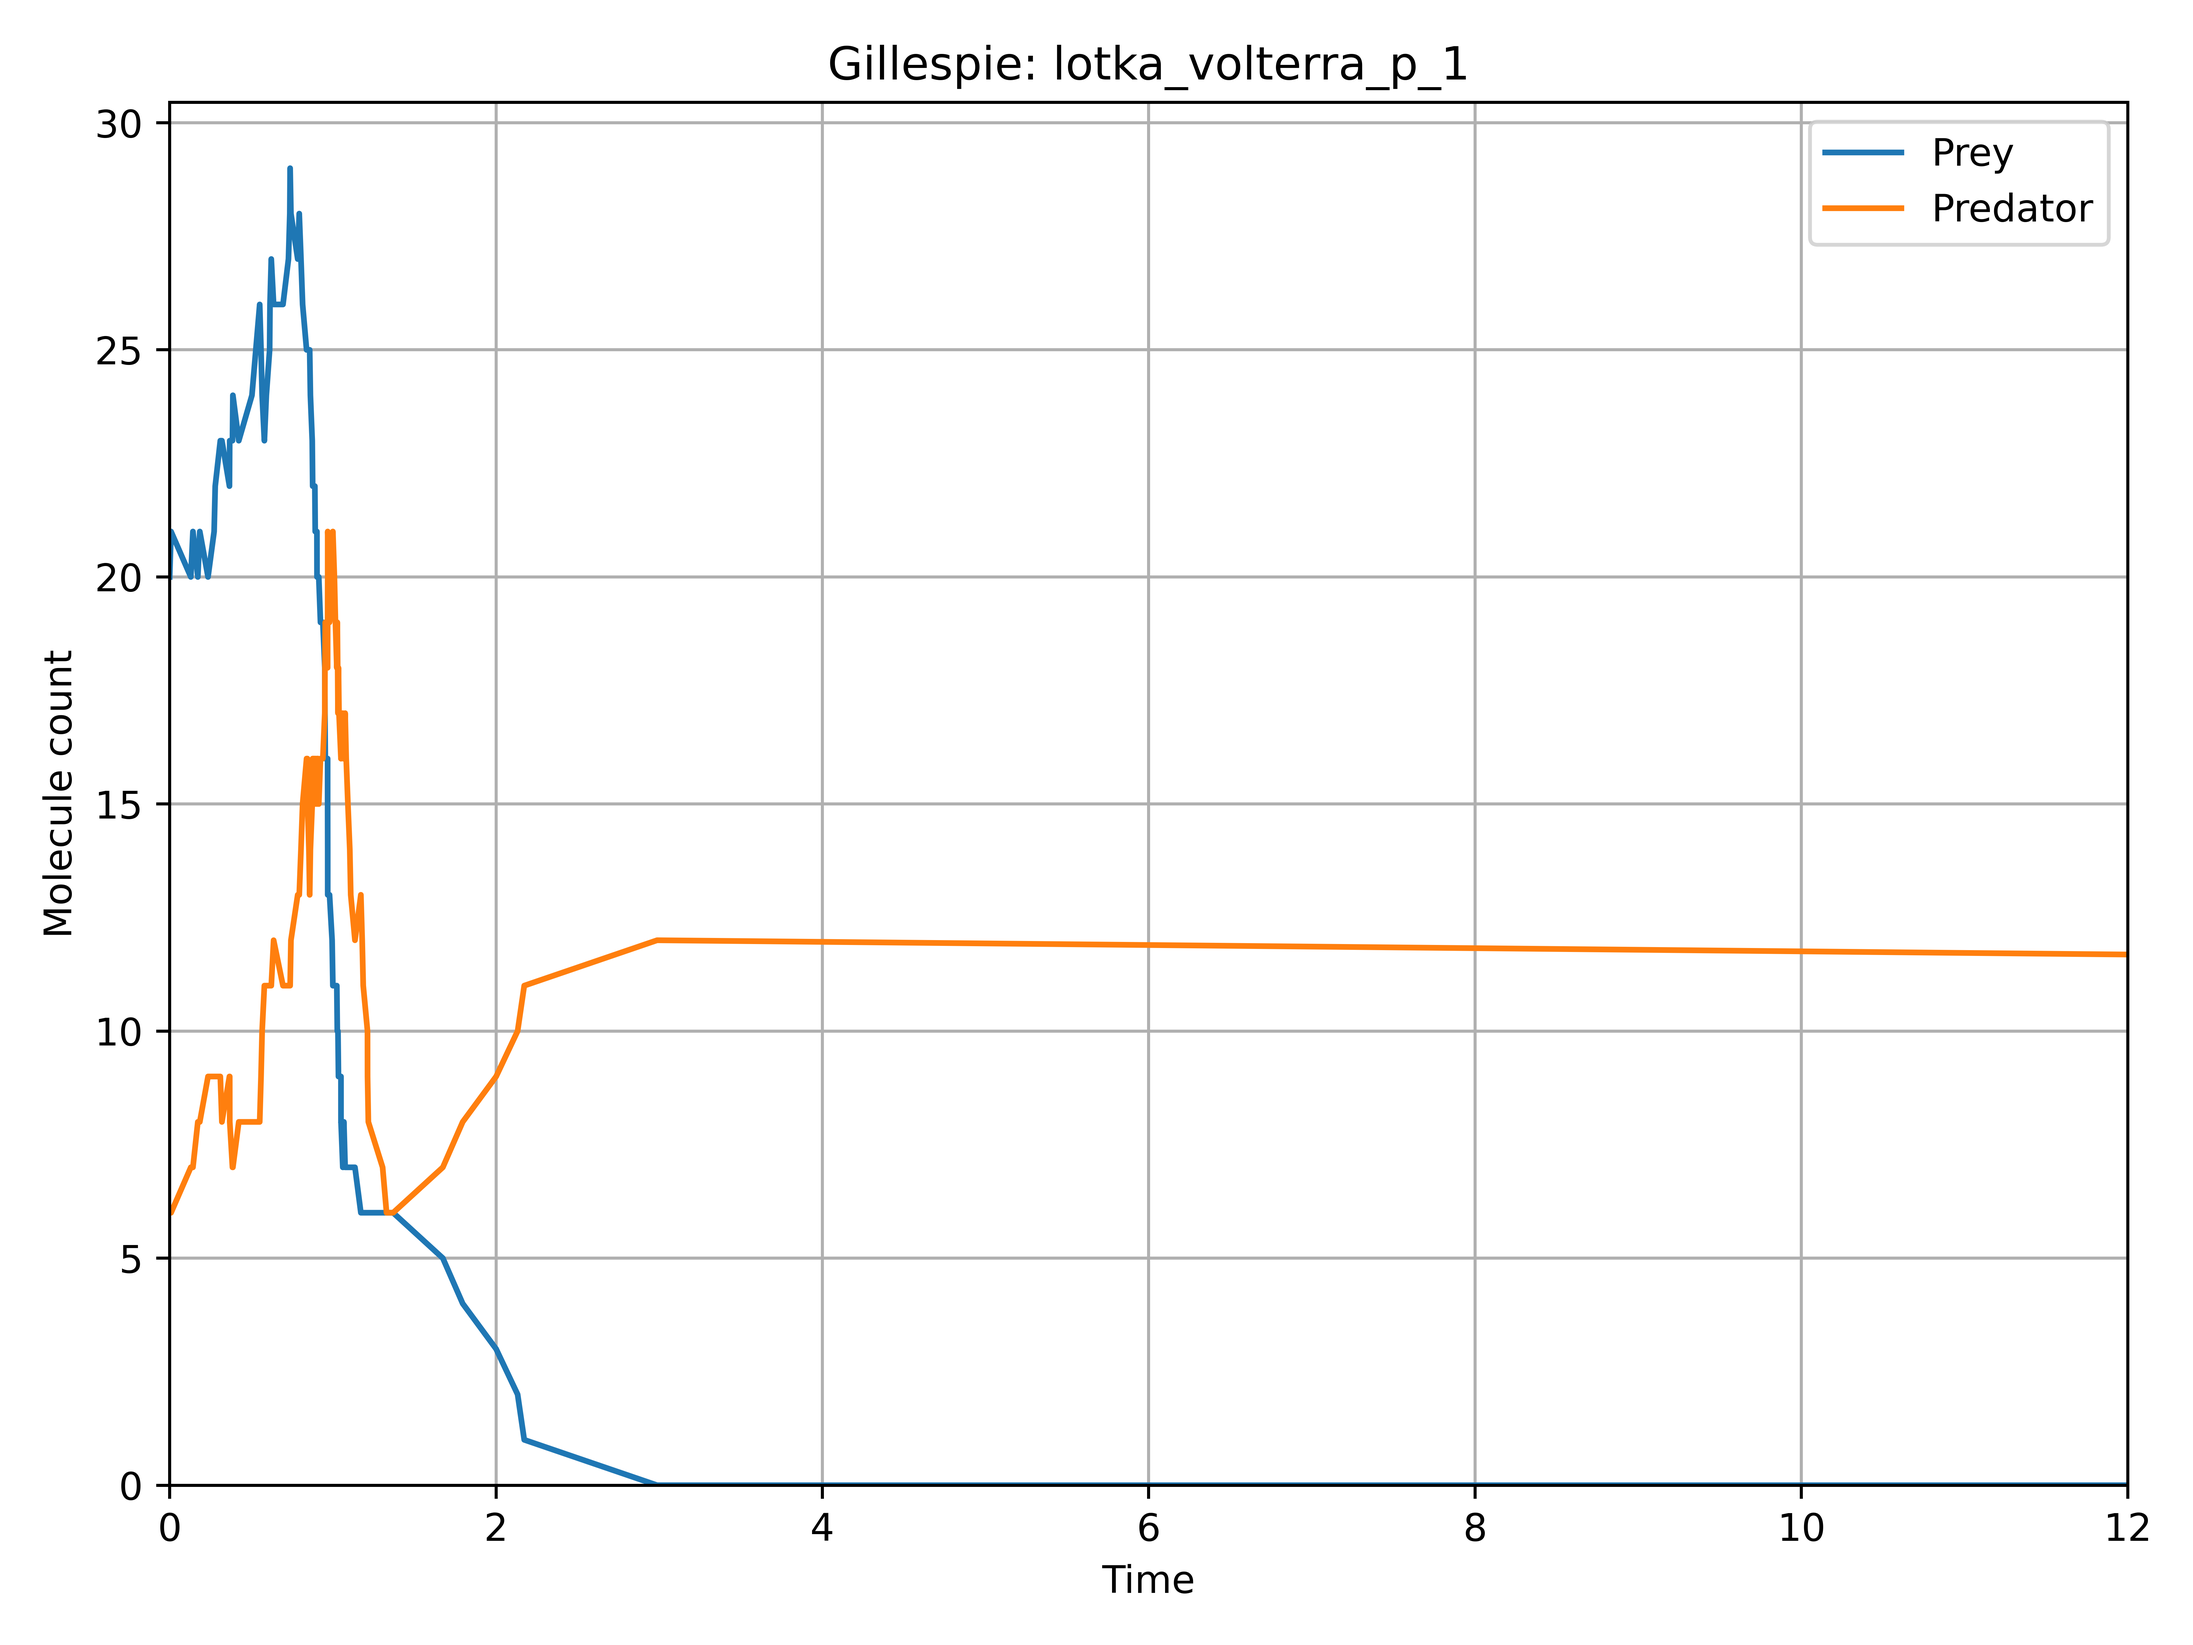
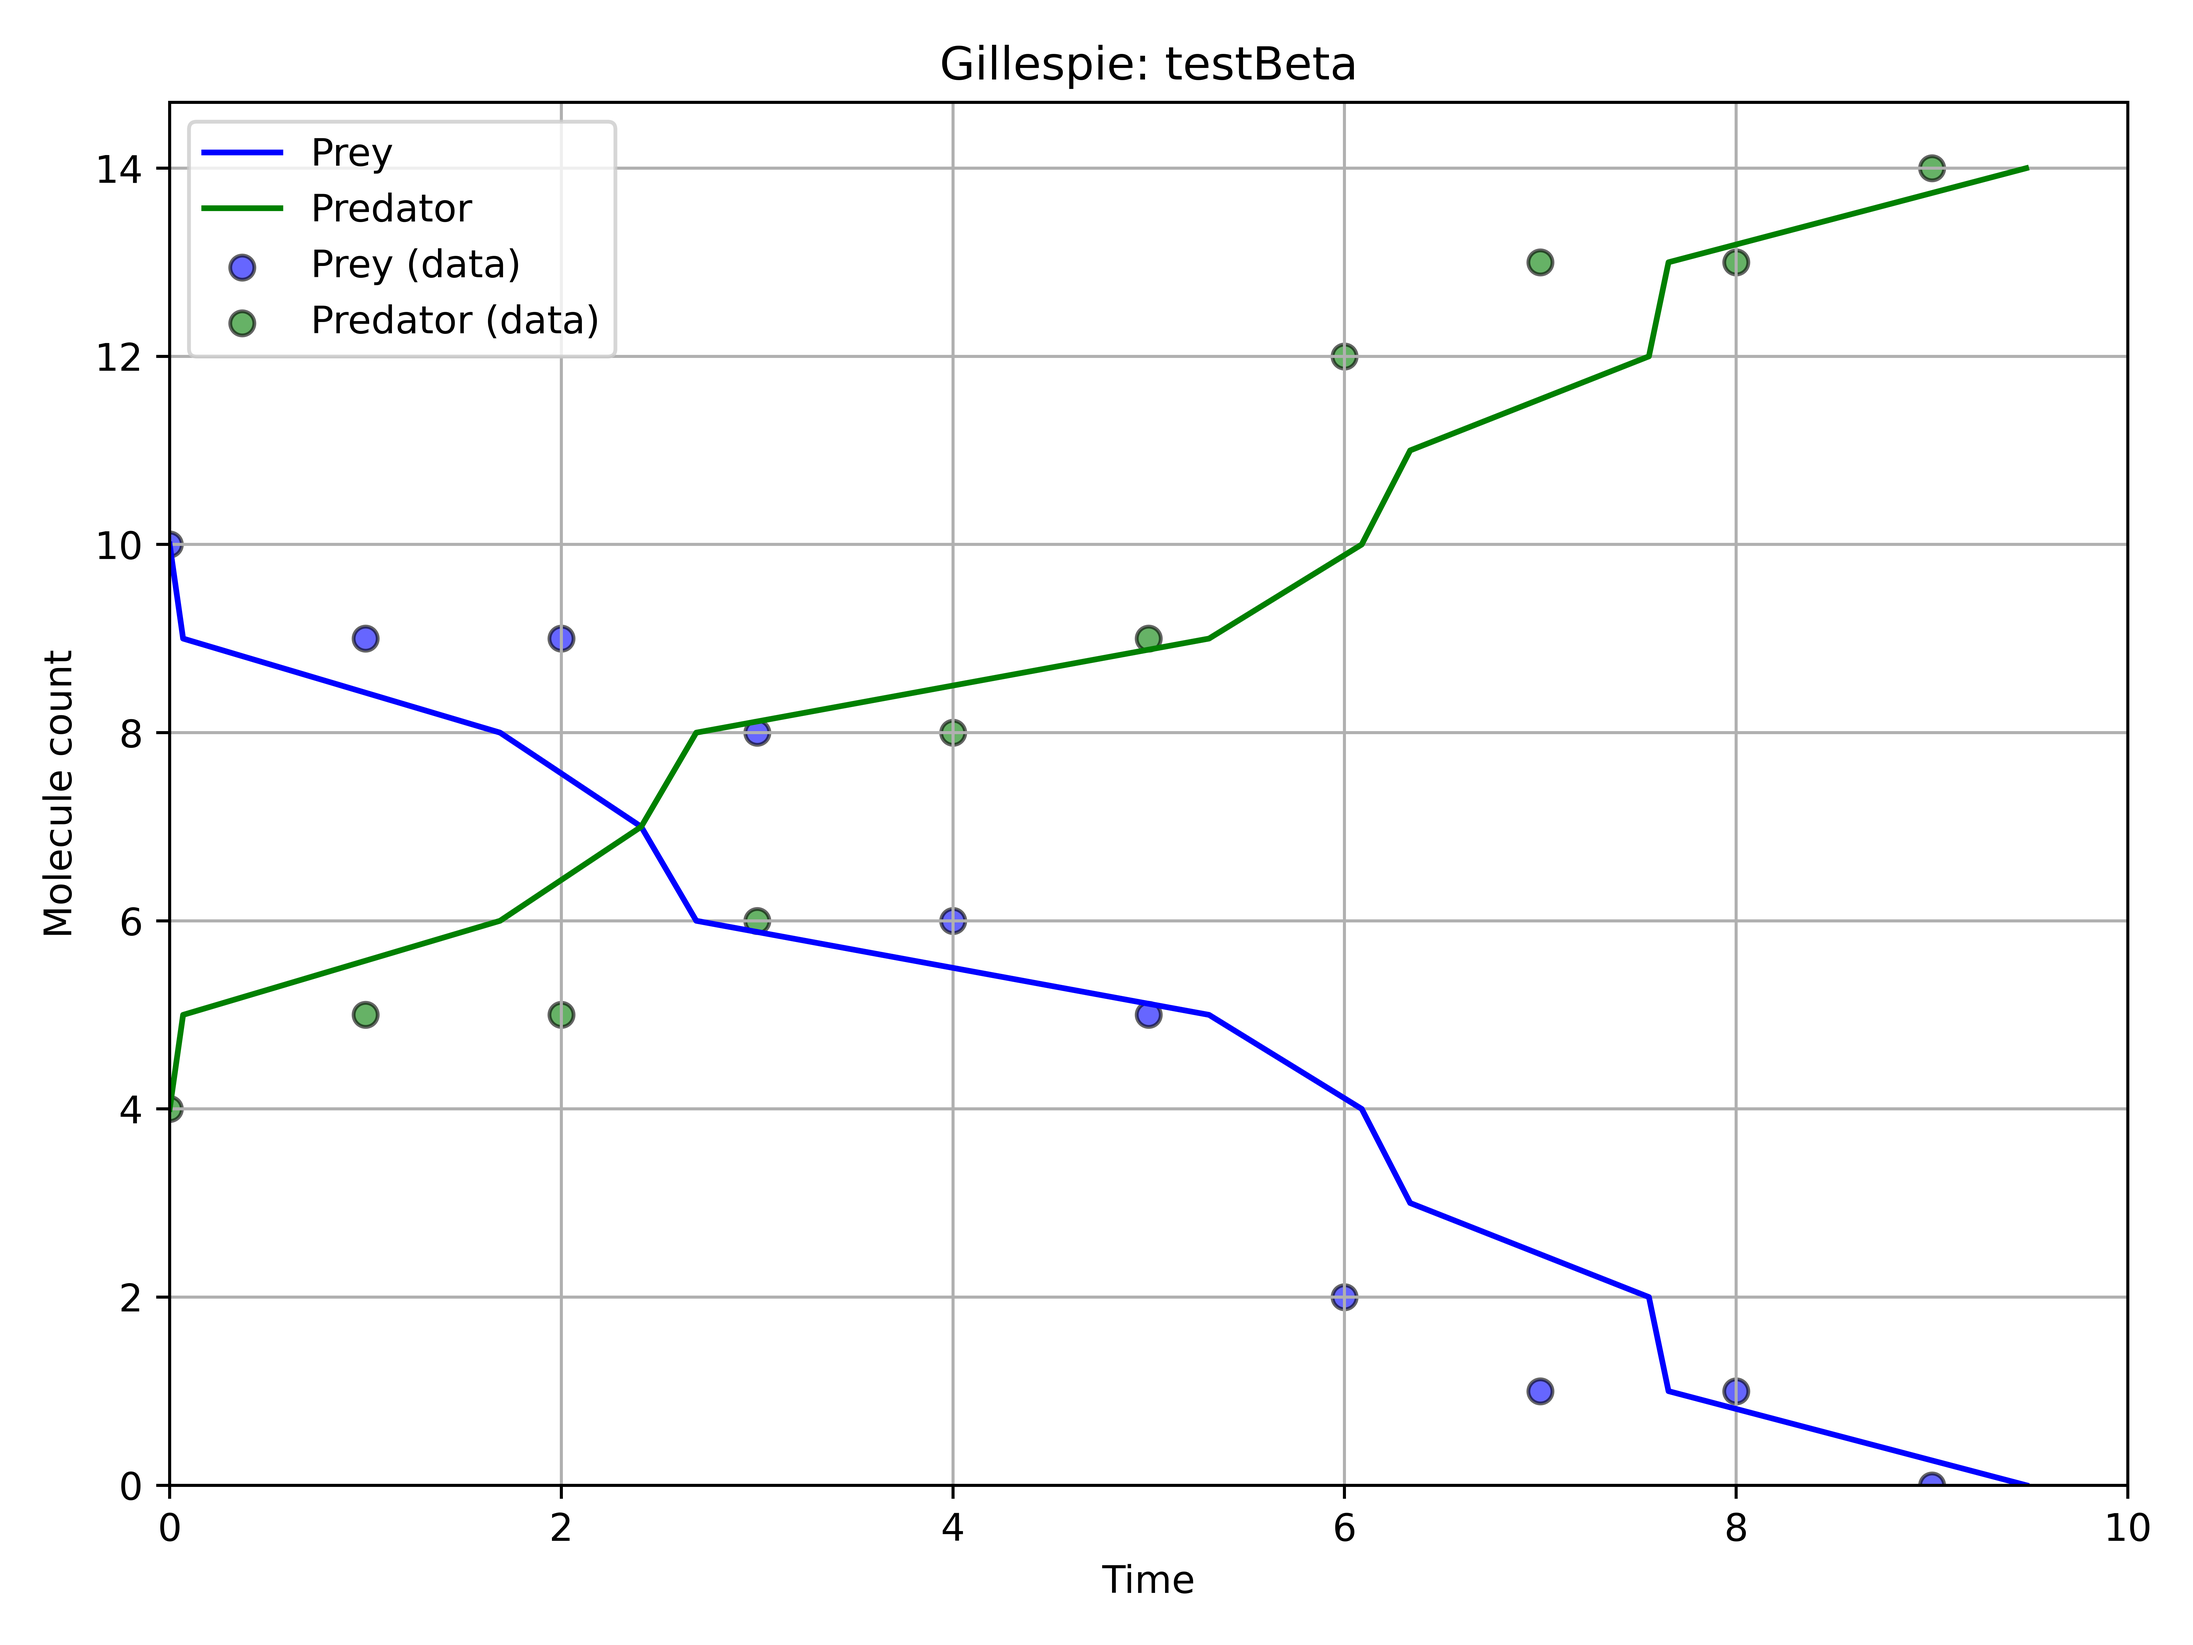
Stocastic inference graphs for presentation

diff --git a/Parser.py b/Parser.py
@@ -17,8 +17,10 @@ class Parser:
         self.model = self.read_sbml_file()
         self.species = self.extract_species()
         self.parameters = self.extract_parameters()
+        self.dfs = {}
         self.reactions = self.extract_reactions()
         self.events = self.extract_events()
+
 
     def read_sbml_file(self):
         reader = libsbml.SBMLReader()
@@ -64,7 +66,11 @@ class Parser:
     def extract_reactions(self):
         reactions = []
         for r in self.model.getListOfReactions():
-            reactions.extend(Reaction(r, self).get_reaction_as_dict())
+            reaction=Reaction(r, self)
+            reactions.extend(reaction.get_reaction_as_dict())
+            if reaction.constant_inferred_name is not None:
+                self.dfs[reaction.constant_inferred_name] = reaction.df_csv
+
         if len(reactions) == 0: raise Exception("No reactions found.")
         return reactions
 
@@ -85,7 +91,11 @@ class Reaction:
         self.rate_formula_rev = None
         self.kinetic_law = None
         self.isReversible = self.reaction.getReversible()
+        self.df_csv = None
+        self.constant_inferred_name = None
+
         self.extract_reaction()
+
 
     def extract_reaction(self):
         # Reactans' coefficients
@@ -147,7 +157,8 @@ class Reaction:
         if file_path is None:
             raise Exception("File csv not found.")
 
-        df = pd.read_csv(file_path)
+        self.df_csv = pd.read_csv(file_path)
+        self.constant_inferred_name = constant
 
         stoich_reactants = {reactant.getSpecies(): reactant.getStoichiometry() for reactant in
                             self.reaction.getListOfReactants()}
@@ -156,7 +167,7 @@ class Reaction:
                            self.reaction.getListOfProducts()}
 
         # There must be at least one specie of the reaction in the file and the time.
-        species_in_csv = df.columns
+        species_in_csv = self.df_csv.columns
         num_of_species_in_csv = 0
         if constants.TIME not in species_in_csv:
             raise Exception("Missing time column in csv.")
@@ -170,14 +181,14 @@ class Reaction:
             raise Exception("No species found in csv.")
 
         # Compute time differences between rows
-        delta_t = df[constants.TIME].diff().iloc[1:]
+        delta_t = self.df_csv[constants.TIME].diff().iloc[1:]
 
         v_t_list = []
 
         for reac_name, coeff_reac in stoich_reactants.items():
-            if reac_name not in df.columns:
+            if reac_name not in self.df_csv.columns:
                 continue
-            delta_p = df[reac_name].diff().iloc[1:]
+            delta_p = self.df_csv[reac_name].diff().iloc[1:]
             if reac_name in stoich_products.keys():
                 # If a species is both reactant and product, use the difference of
                 # its stoichiometric coefficients.
@@ -188,9 +199,9 @@ class Reaction:
                 v = delta_p / ((-1) * coeff_reac * delta_t)
             v_t_list.append(v)
         for prod_name, coeff_prod in stoich_products.items():
-            if prod_name not in df.columns or prod_name in stoich_reactants.keys():
+            if prod_name not in self.df_csv.columns or prod_name in stoich_reactants.keys():
                 continue
-            delta_p = df[prod_name].diff().iloc[1:]
+            delta_p = self.df_csv[prod_name].diff().iloc[1:]
             v = delta_p / (coeff_prod * delta_t)
             v_t_list.append(v)
 
@@ -201,9 +212,9 @@ class Reaction:
         v_avg = sum(v_t_list) / len(v_t_list)
 
         # Calcolo del termine di legge d'azione di massa: [A]^1 * [B]^2
-        rate_expr = np.ones(len(df))
+        rate_expr = np.ones(len(self.df_csv))
         for specie, coeff_reac in stoich_reactants.items():
-            rate_expr *= df[specie] ** coeff_reac
+            rate_expr *= self.df_csv[specie] ** coeff_reac
         rate_expr = rate_expr.iloc[1:]  # delete the first
 
         # Fitting: v ≈ k * rate_expr

diff --git a/main.py b/main.py
@@ -6,7 +6,7 @@ from Gillespie_events import *
 from Graph_generation import *
 from ODE_simulation import *
 
-T_MAX = 12
+T_MAX = 10
 
 '''if __name__ == '__main__':
 
@@ -35,7 +35,7 @@ T_MAX = 12
 
 if __name__ == '__main__':
     # , "lotka_volterra_p_2" "SIR_p"
-    file_to_valuate = ["lotka_volterra_p_1"]
+    file_to_valuate = ["testBeta"]
 
     current_dir = os.path.dirname(__file__)
     test_folder = os.path.join(current_dir, "Test")
@@ -45,23 +45,23 @@ if __name__ == '__main__':
         if filename.endswith(".xml") and filename[:-4] in file_to_valuate:
             file_path = os.path.join(test_folder, filename)
             print(f"\nProcessing file: {filename}")
-
+            parser = Parser(file_path, file_path_csv)
             try:
-                parser = Parser(file_path, file_path_csv)
+
                 t = time.time()
                 Gillespie_sim = Gillespie(parser, T_MAX)
                 Gillespie_sim.gillespie_ssa()
                 evolution = Gillespie_sim.get_evolution()
-                plot_gillepsie(evolution, T_MAX, filename[:-4])  # TODO add memorization plot
+                plot_gillepsie(evolution, T_MAX, filename[:-4], parser.dfs)
                 print(f"Execution time with Gillespie for {filename}: {time.time() - t:.3f}")
             except Exception as e:
                 print(f"{RED}[Gillespie ERROR] {filename}: {e}{RESET}")
 
-            try:
+            '''try:
                 # Optional ODE Simulation:
                 t = time.time()
                 simulate_odes_road_runner(file_path, T_MAX, filename[:-4])
                 print(f"Execution time ODEs for {filename}: {time.time() - t:.3f}")
             except Exception as e:
-                print(f"{RED}[ODEs ERROR] {filename}: {e}{RESET}")
+                print(f"{RED}[ODEs ERROR] {filename}: {e}{RESET}")'''
 

diff --git a/Graph_generation.py b/Graph_generation.py
@@ -3,7 +3,7 @@ import numpy as np
 from Constants import *
 import matplotlib.pyplot as plt
 
-def plot_gillepsie(evolution, t_max, filename=None):
+def plot_gillepsie(evolution, t_max, filename=None, dfs_csv= None):
     if evolution is None: raise Exception("Evolution is None")
     if TIME not in evolution: raise Exception("Evolution does not contain time")
     if TIME in evolution.keys() and len(evolution) == 1: raise Exception("Evolution does not contain data.")
@@ -13,14 +13,28 @@ def plot_gillepsie(evolution, t_max, filename=None):
 
     plt.figure(figsize=(8, 6))
 
+    custom_colors = {
+        'Prey': 'blue',
+        'Predator': 'green',
+        'Susceptible': 'red',
+        'Infected': 'orange',
+        'Recovered': 'purple'
+    }
+
     for specie in specie_names:
         valori = evolution[specie]
-        plt.plot(time_values, valori, label=specie)
+        plt.plot(time_values, valori, label=specie, color=custom_colors[specie])
+
+    # Scatter plot dai punti del DataFrame, se disponibile
+    for df in dfs_csv.values():
+        for specie in specie_names:
+            if TIME in df.columns and specie in df.columns:
+                plt.scatter(df[TIME], df[specie], s=40, marker='o', label=f"{specie} (data)", edgecolors='black', alpha=0.6, color=custom_colors[specie])
 
     plt.xlabel("Time")
     plt.ylabel("Molecule count")
     plt.title(f"Gillespie: {filename}")
-    plt.legend(loc="upper right")
+    plt.legend(loc="upper left")
     plt.grid(True)
     plt.xlim(0, t_max)
     plt.ylim(bottom=0)
@@ -99,4 +113,5 @@ def stochastic_rate_constant_plot (x_vals, y_vals, k, constant):
         plt.savefig(file_path)
         print(f"Grafico salvato in: {file_path}")'''
 
-#def plot_t_evolution(t_evolution):
+
+

diff --git a/Gillespie_events.py b/Gillespie_events.py
@@ -178,8 +178,6 @@ class Gillespie:
             # There is one or more event(s) to evaluate and apply its EventAssigment
             if to_eval_events != []:
                 for event in to_eval_events:
-                    if event[ID] == "noFood":
-                        pass
                     # Check that the trigger is still True
                     if self.evaluate_expr(event[TRIGGER_FORMULA], ERROR_TRIGGER, self.t):
                         # event[VALUES_FROM_TRIGGER_TIME] may be {} if eventAssigment use only constant or if
